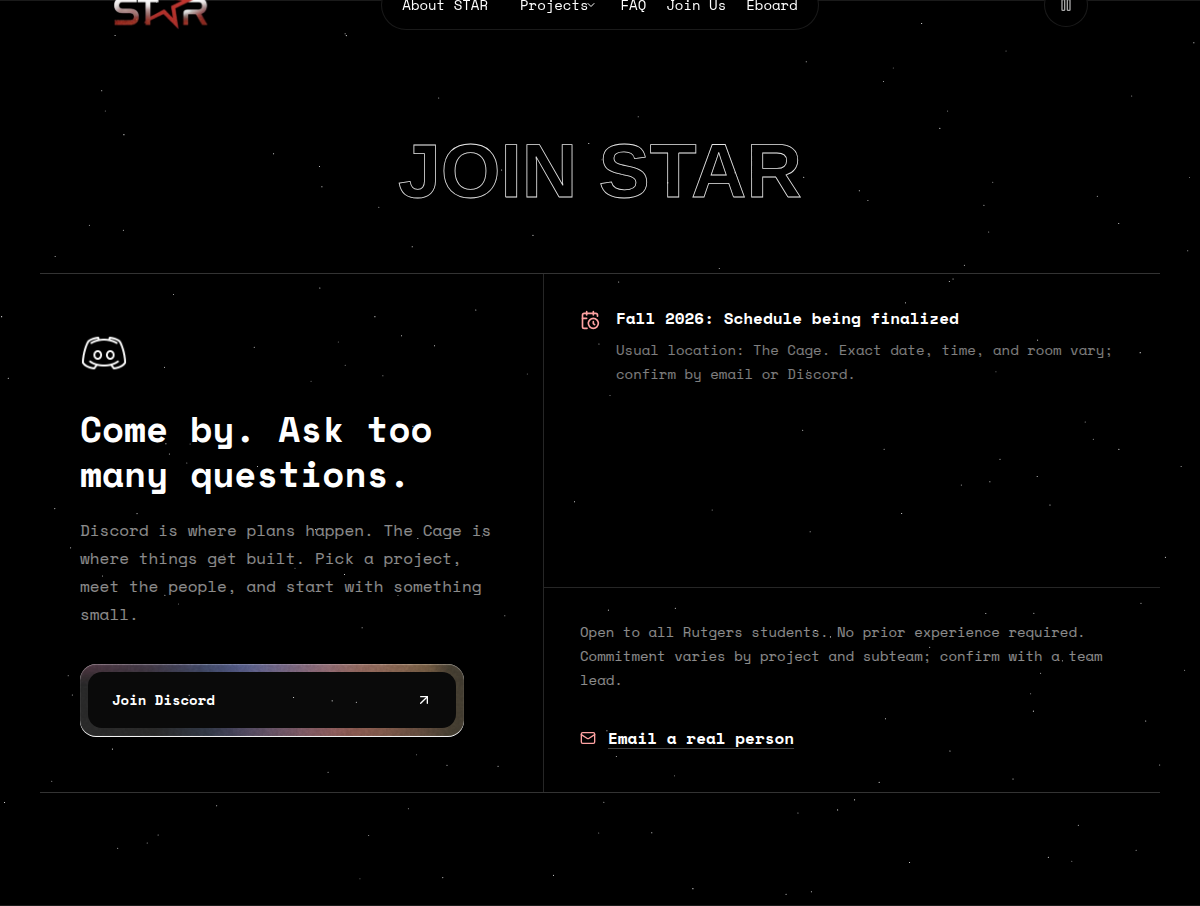
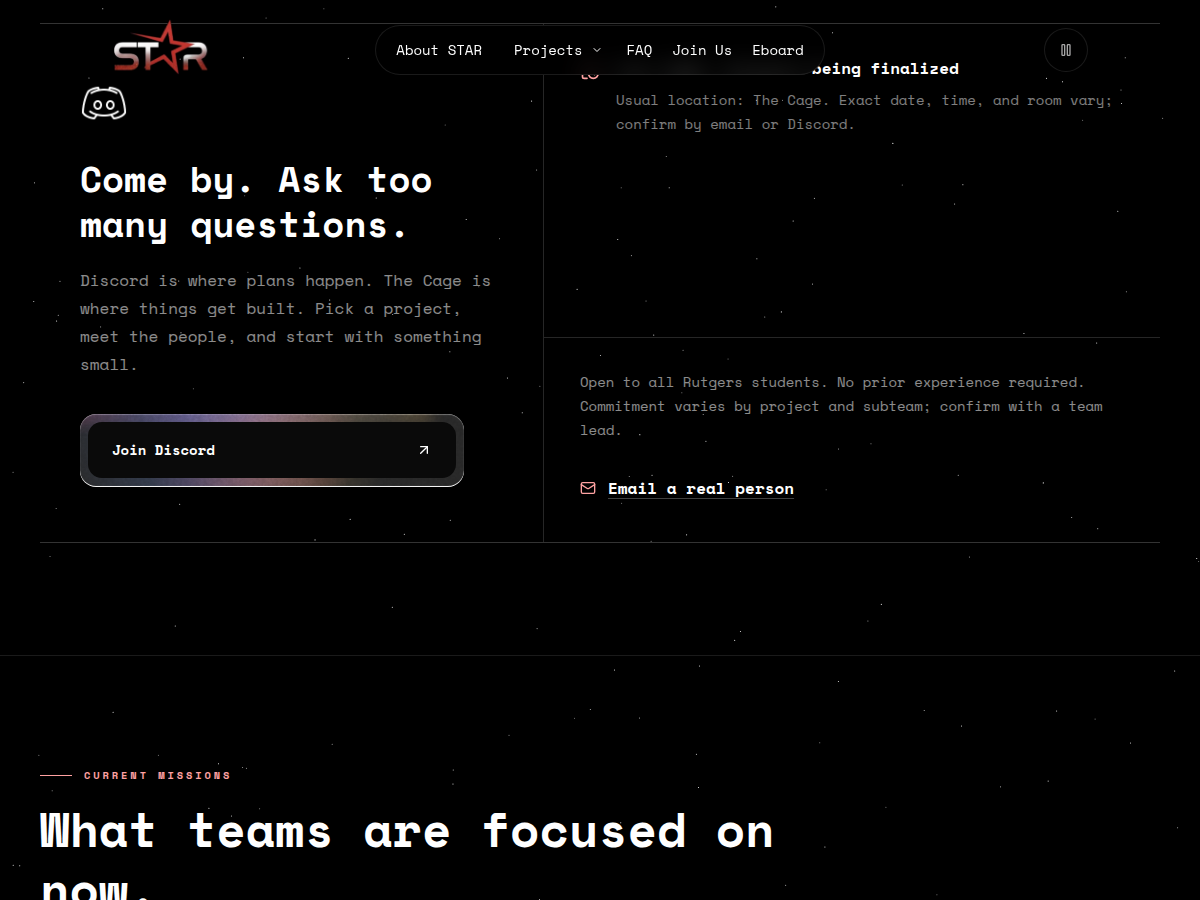
fix nav caret spacing and CTA stacking

diff --git a/src/components/ui/navigation-menu.tsx b/src/components/ui/navigation-menu.tsx
@@ -59,7 +59,7 @@ function NavigationMenuItem({
 }
 
 const navigationMenuTriggerStyle = cva(
-  "group relative inline-flex h-9 w-max items-center justify-center rounded-md bg-background px-5 py-2 text-sm font-medium transition-[color,box-shadow] outline-none hover:bg-accent hover:text-accent-foreground focus:bg-accent focus:text-accent-foreground focus-visible:ring-[3px] focus-visible:ring-ring/50 focus-visible:outline-1 disabled:pointer-events-none disabled:opacity-50 data-[state=open]:bg-accent/50 data-[state=open]:text-accent-foreground data-[state=open]:hover:bg-accent data-[state=open]:focus:bg-accent"
+  "group relative inline-flex h-9 w-max items-center justify-center rounded-md bg-background py-2 pl-5 pr-8 text-sm font-medium transition-[color,box-shadow] outline-none hover:bg-accent hover:text-accent-foreground focus:bg-accent focus:text-accent-foreground focus-visible:ring-[3px] focus-visible:ring-ring/50 focus-visible:outline-1 disabled:pointer-events-none disabled:opacity-50 data-[state=open]:bg-accent/50 data-[state=open]:text-accent-foreground data-[state=open]:hover:bg-accent data-[state=open]:focus:bg-accent"
 )
 
 function NavigationMenuTrigger({

diff --git a/src/routes/home/JoinUsSection.tsx b/src/routes/home/JoinUsSection.tsx
@@ -34,7 +34,7 @@ const JoinUsSection = () => {
             <div className="mt-9">
               <NoiseBackground
                 animating={!reducedMotion}
-                containerClassName="w-full max-w-sm bg-neutral-800"
+                containerClassName="relative isolate z-[60] w-full max-w-sm bg-neutral-800"
               >
                 <a
                   href={currentInfo.contact.discordHref}

diff --git a/changes/20-visual-direction-lab/R20.3-production-detail-refinements.md b/changes/20-visual-direction-lab/R20.3-production-detail-refinements.md
@@ -44,3 +44,7 @@ caption, E-board portraits, partner rail/assets, global footer, design records
 - Restored the Discord treatment to the Aceternity component's native 8px frame, default gradients,
   noise intensity, and animation speed. The frame is explicitly opaque neutral-800 and the inner
   CTA opaque neutral-950; verified at 390px, 768px, and 1440px with reduced motion disabled.
+- 2026-08-29 — Reserved 8px between the Projects label and dropdown chevron without changing the
+  measured 49.5px label center. Isolated the Discord CTA at z-60 above the global z-50 shooting-star
+  surface so page stars cannot paint over its opaque frame or inner button; screenshot and stacking
+  order verified at 390px, 768px, and 1440px.

diff --git a/design/components.md b/design/components.md
@@ -57,7 +57,8 @@ Home Join flow: one open, full-width atmospheric composition, not a stack of nes
 an editorial two-column composition, one short invitation, primary Discord + secondary email
 actions, and a single meeting-status line. Use the Discord mark directly, not a generic radio
 symbol. The Discord CTA uses NoiseBackground as an opaque 8px textured edge with the component's
-native gradients and noise, never as a large surface.
+native gradients and noise, never as a large surface. Its isolated layer stays above the global
+star effects so the page stars do not paint through the CTA.
 STAR red, hairline borders, mono labels, and generous negative space connect it to the project-page
 mission-dossier language.
 
